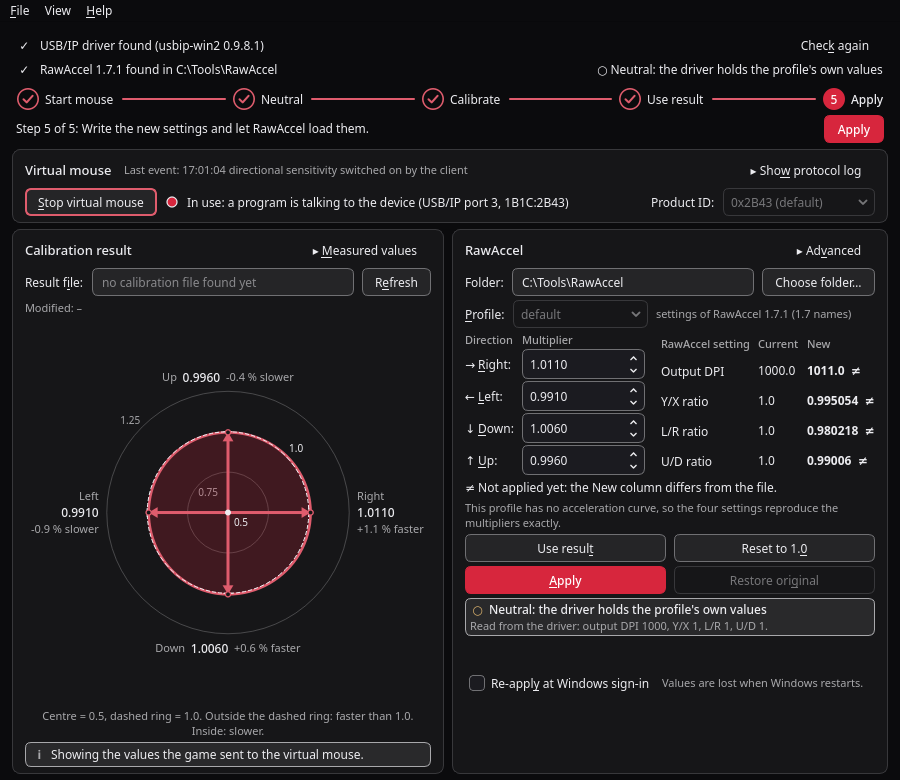
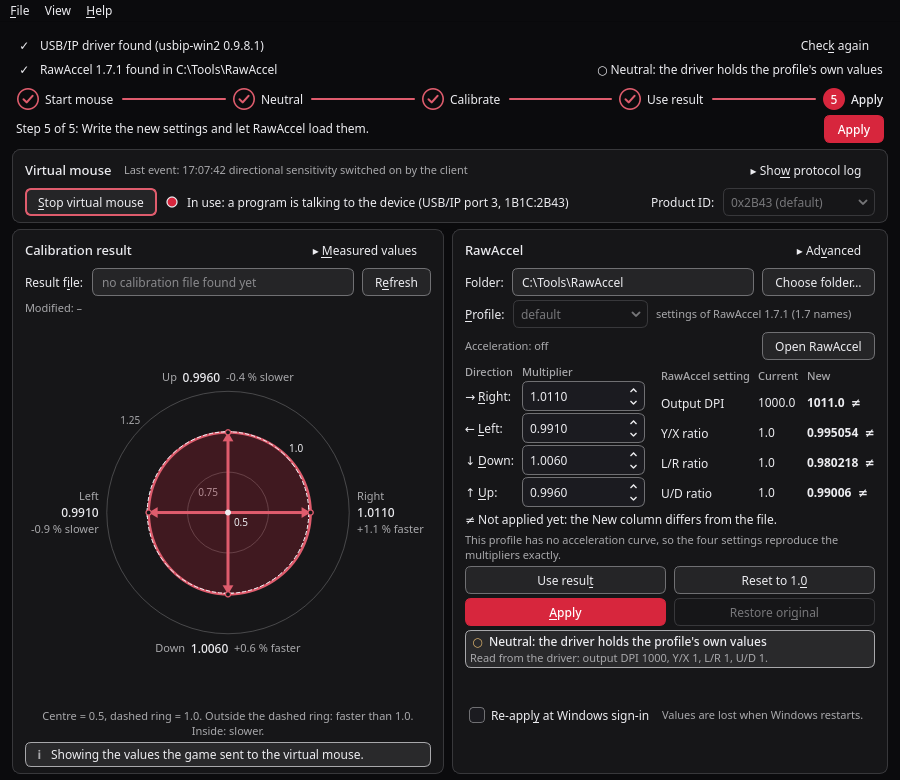
Show the active acceleration in both driver cards, with a way to the driver's settings
The Linux driver card names the acceleration the module is set to in its
head and follows changes made elsewhere; the RawAccel card names that of
the selected profile. Both are read-only. "Open yeetmouse settings" and
"Open RawAccel" start the driver's own settings program when it is found
and say how to get it when not.

Changed region(s): [[0.4978, 0.4308, 0.9644, 0.9231], [0.4978, 0.4308, 0.6533, 0.5538]]

diff --git a/quadsens/ui/driver_panel.py b/quadsens/ui/driver_panel.py
@@ -2,10 +2,12 @@
 
 from __future__ import annotations
 
+import os
+import shutil
 import time
 from collections.abc import Callable
 
-from .. import active_linux
+from .. import accel, active_linux
 from ..calibration import Result, driver_scalars
 from ..driver import (
     PARAM_NAMES,
@@ -32,12 +34,22 @@ from .status import (
     caption,
     column_header,
     heading,
+    start_program,
 )
 
 # Mouse direction each parameter scales; the driver's +Y is "down".
 DIRECTIONS: tuple[str, ...] = ("right", "left", "down", "up")
 ROW_TITLES: tuple[str, ...] = ("→ &Right:", "← &Left:", "↓ &Down:", "↑ &Up:")
 NO_VALUE = "–"
+def find_yeetmouse_gui() -> str | None:
+    """The fork's settings program: on PATH, or where its Makefile installs it."""
+    found = shutil.which(accel.YEETMOUSE_GUI)
+    if found:
+        return found
+    fixed = "/usr/bin/" + accel.YEETMOUSE_GUI
+    return fixed if os.path.isfile(fixed) and os.access(fixed, os.X_OK) else None
+
+
 WATCH_MS = 3000          # how often the driver is read again while the card is visible
 DECIMALS = 4
 # Half a step of the last digit shown: closer than this is "the same value".
@@ -190,11 +202,30 @@ class DriverPanel(Card):
             bool(settings.value("driver/apply_on_start", False, type=bool)))
         self.auto_check.toggled.connect(
             lambda checked: settings.setValue("driver/apply_on_start", checked))
+        # The acceleration the driver is set to, read-only: in short in the head
+        # of the card, in full here, with the way to the driver's own settings.
+        self.accel = accel.Accel(accel.YEETMOUSE, problem="not read yet")
+        self.accel_label = caption(ElideLabel())
+        self.accel_label.setAccessibleName("Acceleration the driver is set to")
+        self.settings_button = QtWidgets.QPushButton("Open yeetmouse settings…")
+        self.settings_button.setToolTip(
+            "Start the settings program of the driver (yeetmouse), where the "
+            "acceleration is changed. QuadSens only shows it.")
+        self.settings_button.clicked.connect(self.open_driver_settings)
+        # Replaceable, so that tests start nothing.
+        self.find_gui: Callable[[], str | None] = find_yeetmouse_gui
+        self.launch: Callable[[str, str], bool] = start_program
         self.advanced = QtWidgets.QWidget()
         advanced_layout = QtWidgets.QVBoxLayout(self.advanced)
         advanced_layout.setContentsMargins(SPACE_M * 2, 0, 0, 0)
         advanced_layout.setSpacing(SPACE_S)
-        advanced_layout.addWidget(self.flip_check)
+        # The button shares the line of the first switch, so that it costs no height.
+        first_row = QtWidgets.QHBoxLayout()
+        first_row.setSpacing(SPACE_M)
+        first_row.addWidget(self.flip_check)
+        first_row.addStretch(1)
+        first_row.addWidget(self.settings_button)
+        advanced_layout.addLayout(first_row)
         advanced_layout.addWidget(self.flip_hint)
         advanced_layout.addWidget(self.auto_check)
         self.advanced_toggle = Disclosure("Ad&vanced", self.advanced)
@@ -205,7 +236,7 @@ class DriverPanel(Card):
 
         for control in (self.use_button, self.flip_check, self.reset_button,
                         self.read_button, self.apply_button, self.auto_check,
-                        self.advanced_toggle):
+                        self.advanced_toggle, self.settings_button):
             control.setAccessibleDescription(control.toolTip())
 
         self.message = MessageLabel("Driver message")
@@ -225,7 +256,9 @@ class DriverPanel(Card):
 
         layout = self.card_layout()
         head = QtWidgets.QHBoxLayout()
-        head.addWidget(heading("Driver (yeetmouse)"), 1)
+        head.setSpacing(SPACE_M)
+        head.addWidget(heading("Driver (yeetmouse)"))
+        head.addWidget(self.accel_label, 1)
         head.addWidget(self.advanced_toggle)
         layout.addLayout(head)
         layout.addLayout(grid)
@@ -340,9 +373,39 @@ class DriverPanel(Card):
         self.save_state = self._saver.state(self.driver_values())
         self._update_pending()
         self._update_indicator()
+        self._update_accel()
         self.changed.emit()
         self.driver_read.emit()
         return state
+
+    def _update_accel(self) -> bool:
+        """Read the acceleration settings again; True if they changed."""
+        found = accel.read_yeetmouse(self._driver.params_dir, self._saver.config_path)
+        changed = found != self.accel
+        self.accel = found
+        self.accel_label.setText(found.short())
+        self.accel_label.setAccessibleDescription(found.summary())
+        self.accel_label.setToolTip(
+            found.summary() + ". Read-only here; change it in the driver's own settings "
+            "(Advanced > Open yeetmouse settings). This is what the driver was set to; "
+            "it applies no curve if it rejects these parameters, and says so only in "
+            "the kernel log.")
+        return changed
+
+    def open_driver_settings(self) -> None:
+        """Start the driver's own settings program, or say how to get it."""
+        program = self.find_gui()
+        if program is None:
+            self.message.show_message(
+                "The settings program of the driver (%s) was not found. It is installed "
+                "together with the fork (make install, or its package); see the README "
+                "of the driver." % accel.YEETMOUSE_GUI)
+        elif self.launch(program, ""):
+            self.message.show_message(
+                "Started %s. What you change there shows up here within a few seconds."
+                % program)
+        else:
+            self.message.show_message("%s could not be started." % program, error=True)
 
     def _update_indicator(self) -> None:
         self.active = shown = active_linux.linux_indicator(
@@ -364,6 +427,8 @@ class DriverPanel(Card):
             return
         if self._driver.read() != self.state:
             self.refresh()
+        else:
+            self._update_accel()
 
     def showEvent(self, event: object) -> None:  # noqa: N802 (Qt name)
         super().showEvent(event)        # type: ignore[arg-type]

diff --git a/quadsens/ui/rawaccel_panel.py b/quadsens/ui/rawaccel_panel.py
@@ -7,7 +7,7 @@ import time
 from collections.abc import Callable, Mapping
 from pathlib import Path
 
-from .. import active, rawaccel, rawaccel_live, win_autostart
+from .. import accel, active, rawaccel, rawaccel_live, win_autostart
 from ..calibration import Result, driver_scalars
 from ..model import SCALE_MAX, SCALE_MIN, Scalars
 from ..rawaccel import Four, RawAccelError
@@ -25,6 +25,7 @@ from .status import (
     caption,
     column_header,
     heading,
+    start_program,
 )
 
 ROW_TITLES: tuple[str, ...] = ("→ &Right:", "← &Left:", "↓ &Down:", "↑ &Up:")
@@ -179,6 +180,21 @@ class RawAccelPanel(Card):
         self.state_label = ElideLabel()
         self.state_label.setAccessibleName("Whether the settings file holds the new values")
         self.note_label = caption(WrapLabel("How exact the result is"))
+        # The acceleration of the selected profile, read-only, and the way to
+        # RawAccel's own window, where it is changed.
+        self.accel = accel.Accel(accel.RAWACCEL, problem="no settings file")
+        self.accel_label = caption(ElideLabel())
+        self.accel_label.setAccessibleName("Acceleration of the selected profile")
+        self.settings_button = QtWidgets.QPushButton("Open RawAccel")
+        self.settings_button.setToolTip(
+            "Start RawAccel's own window (rawaccel.exe in this folder), where the "
+            "acceleration is changed. QuadSens only shows it.")
+        self.settings_button.clicked.connect(self.open_rawaccel)
+        self.launch: Callable[[str, str], bool] = start_program     # replaced in tests
+        accel_row = QtWidgets.QHBoxLayout()
+        accel_row.setSpacing(SPACE_M)
+        accel_row.addWidget(self.accel_label, 1)
+        accel_row.addWidget(self.settings_button)
         self.indicator = ActiveIndicator("RawAccel driver activity", wrap=True)
         self.autostart_check = QtWidgets.QCheckBox("Re-appl&y at Windows sign-in")
         self.autostart_check.setToolTip(AUTOSTART_TIP)
@@ -232,7 +248,7 @@ class RawAccelPanel(Card):
 
         for control in (self.choose_button, self.use_button, self.reset_button,
                         self.apply_button, self.restore_button, self.flip_check,
-                        self.advanced_toggle, self.autostart_check):
+                        self.advanced_toggle, self.autostart_check, self.settings_button):
             control.setAccessibleDescription(control.toolTip())
 
         self.message = MessageLabel("RawAccel message")
@@ -244,6 +260,7 @@ class RawAccelPanel(Card):
         layout.addLayout(head)
         layout.addLayout(folder_row)
         layout.addLayout(profile_row)
+        layout.addLayout(accel_row)
         layout.addLayout(tables)
         layout.addWidget(self.state_label)
         layout.addWidget(self.note_label)
@@ -466,9 +483,45 @@ class RawAccelPanel(Card):
         self.apply_button.setEnabled(idle and usable and not self.is_applied())
         self.restore_button.setEnabled(idle and usable and self.can_restore())
         self.choose_button.setEnabled(idle)
+        self._update_accel()
         self._refresh_autostart()
         self._update_indicator(read=False)
         self.changed.emit()
+
+    # ---- acceleration, read-only --------------------------------------------------
+
+    def _update_accel(self) -> None:
+        document = self.document
+        if document is None:
+            self.accel = accel.Accel(accel.RAWACCEL, problem="no settings file")
+        else:
+            profiles = document.data.get("profiles")
+            index = self.profile_index()
+            profile = profiles[index] if isinstance(profiles, list) \
+                and index < len(profiles) and isinstance(profiles[index], dict) else {}
+            self.accel = accel.read_rawaccel_profile(profile)
+        text = self.accel.summary()
+        self.accel_label.setText(text)
+        self.accel_label.setAccessibleDescription(text)
+        self.accel_label.setToolTip(text + ". Read-only here; change it in RawAccel.")
+        self.settings_button.setEnabled(self.folder is not None)
+
+    def open_rawaccel(self) -> None:
+        """Start RawAccel's own window, or say where it should be."""
+        if self.folder is None:
+            return
+        program = self.folder / accel.RAWACCEL_GUI
+        if not program.is_file():
+            self.message.show_message(
+                "%s is not in %s. It comes with RawAccel; choose the folder that holds "
+                "it, or install RawAccel with the button on top of the window."
+                % (accel.RAWACCEL_GUI, self.folder))
+        elif self.launch(str(program), str(self.folder)):
+            self.message.show_message(
+                "Started RawAccel. After you change something there and it saves "
+                "settings.json, press Choose folder or restart QuadSens to read it again.")
+        else:
+            self.message.show_message("%s could not be started." % program, error=True)
 
     # ---- is the driver applying it? -----------------------------------------------
 

diff --git a/tests/test_ui.py b/tests/test_ui.py
@@ -391,6 +391,45 @@ class MainWindowTest(unittest.TestCase):
         self.assertEqual(again.driver_panel.indicator.text(), "✓ Active in driver")
         self.assertTrue(again.driver_panel.indicator.detail.text().startswith("Applied "))
 
+    def test_acceleration_is_shown_read_only_with_a_way_to_the_drivers_settings(self) -> None:
+        for name, text in (("AccelerationMode", "3"), ("Acceleration", "0.05"),
+                           ("Exponent", "1.8"), ("Midpoint", "1.3"), ("Motivity", "1.5"),
+                           ("Offset", "0"), ("InputCap", "0"), ("OutputCap", "2"),
+                           ("UseSmoothing", "0")):
+            (self.params / name).write_text(text + "\n")
+        before = {path.name: path.read_text() for path in self.params.iterdir()}
+        window = self.make_window()
+        window.show()
+        panel = window.driver_panel
+        self.assertEqual(panel.accel_label.text(),
+                         "Acceleration: Classic, 0.05, 1.8; output cap 2")
+        self.assertEqual(panel.accel_label.accessibleDescription(),
+                         "Acceleration: Classic, Acceleration 0.05, Exponent 1.8; "
+                         "output cap 2; UseSmoothing off")
+        # Changed in the driver's own program: the next look shows it.
+        (self.params / "AccelerationMode").write_text("12\n")
+        before["AccelerationMode"] = "12\n"
+        panel.watch()
+        self.assertEqual(panel.accel_label.text(),
+                         "Acceleration: mode 12 (not known to QuadSens)")
+
+        started: list[tuple[str, str]] = []
+        panel.launch = lambda program, folder: started.append((program, folder)) or True
+        panel.find_gui = lambda: None
+        panel.advanced_toggle.setChecked(True)
+        self.assertTrue(panel.settings_button.isVisible())
+        panel.settings_button.click()
+        self.assertEqual(started, [])
+        self.assertIn("was not found", panel.message.text())
+        self.assertIn("installed together with the fork", panel.message.text())
+        panel.find_gui = lambda: "/usr/bin/yeetmouse"
+        panel.settings_button.click()
+        self.assertEqual(started, [("/usr/bin/yeetmouse", "")])
+        self.assertIn("Started /usr/bin/yeetmouse", panel.message.text())
+        # Showing it wrote nothing.
+        self.assertEqual({path.name: path.read_text() for path in self.params.iterdir()},
+                         before)
+
     def test_long_texts_never_widen_the_window(self) -> None:
         """Paths, versions and messages from outside must wrap or elide."""
         window = self.make_window()

diff --git a/tests/test_windows_ui.py b/tests/test_windows_ui.py
@@ -1134,6 +1134,31 @@ class ActiveAndAutostartTest(WindowCase):
         self.assertEqual(window.tools_strip.active_label.text(),
                          "✕ Not active yet: restart Windows")
 
+    def test_acceleration_of_the_profile_is_shown_read_only(self) -> None:
+        shutil.copy(FIXTURES / "rawaccel" / "settings-1.7.1-profiles.json", self.settings_file)
+        original = self.settings_file.read_bytes()
+        window = self.make()
+        window.show()
+        panel = window.rawaccel_panel
+        self.assertEqual(panel.accel_label.text(), "Acceleration: off")
+        panel.profile_combo.setCurrentIndex(1)
+        self.assertEqual(panel.accel_label.text(),
+                         "Acceleration: Classic, acceleration 0.005, exponentClassic 2; "
+                         "cap (output) input 15, output 1.5; gain")
+        panel.profile_combo.setCurrentIndex(2)
+        self.assertIn("Natural", panel.accel_label.text())
+        self.assertEqual(self.settings_file.read_bytes(), original)     # nothing written
+
+        started: list[tuple[str, str]] = []
+        panel.launch = lambda program, folder: started.append((program, folder)) or True
+        panel.settings_button.click()
+        self.assertEqual(started, [])                          # no rawaccel.exe in the folder
+        self.assertIn("rawaccel.exe is not in", panel.message.text())
+        (self.folder / "rawaccel.exe").write_bytes(b"MZ")
+        panel.settings_button.click()
+        self.assertEqual(started, [(str(self.folder / "rawaccel.exe"), str(self.folder))])
+        self.assertIn("Started RawAccel", panel.message.text())
+
     def test_autostart_is_off_until_ticked_and_gone_when_unticked(self) -> None:
         window = self.make()
         panel = window.rawaccel_panel
@@ -1180,6 +1205,9 @@ class ActiveAndAutostartTest(WindowCase):
     def test_autostart_needs_a_folder_and_reports_a_registry_that_refuses(self) -> None:
         window = self.make(choose=False)
         panel = window.rawaccel_panel
+        self.assertFalse(panel.settings_button.isEnabled())           # no folder, no RawAccel
+        self.assertEqual(panel.accel_label.text(),
+                         "Acceleration: not read (no settings file)")
         self.assertFalse(panel.autostart_check.isEnabled())
         self.assertIn("Needs the RawAccel folder", panel.boot_label.text())
         panel.choose_folder(str(self.folder))

diff --git a/tools/make_screenshot.py b/tools/make_screenshot.py
@@ -748,6 +748,12 @@ def main(argv: list[str]) -> int:
         for name in PARAM_NAMES:
             (params / name).write_text("1.000000\n")
         (params / "update").write_text("0\n")
+        # The acceleration the stand-in driver is set to (shown read-only).
+        for name, text in (("AccelerationMode", "1"), ("Acceleration", "0.05"),
+                           ("Exponent", "1.8"), ("Midpoint", "1.3"), ("Motivity", "1.5"),
+                           ("Offset", "0"), ("InputCap", "0"), ("OutputCap", "0"),
+                           ("UseSmoothing", "0")):
+            (params / name).write_text(text + "\n")
         uhid = Path(tmp, "uhid")  # a plain file: "writable", but never opened
         uhid.write_bytes(b"")
         cal_dir = Path(tmp, "Users", "u1", "ASFData", "mouse")

diff --git a/quadsens/ui/status.py b/quadsens/ui/status.py
@@ -175,6 +175,12 @@ class ElideLabel(QtWidgets.QLabel):
         self.update()
 
 
+def start_program(program: str, folder: str = "") -> bool:
+    """Start a settings program on its own, detached from QuadSens. True if it started."""
+    started = QtCore.QProcess.startDetached(program, [], folder)
+    return bool(started[0] if isinstance(started, tuple) else started)
+
+
 class ActiveIndicator(QtWidgets.QFrame):
     """Says whether the driver is applying the values: mark, headline, one line of detail.
 

diff --git a/README.md b/README.md
@@ -310,6 +310,15 @@ with the reason (module not loaded, not the fork), or *Cannot be verified*
 when the parameters are not readable for you. The driver check on top shows
 the same in short. Reading needs no extra rights and writes nothing.
 
+**Acceleration.** The head of the driver card shows the acceleration the
+driver is set to, for example "Acceleration: Linear, 0.05; cap none", read
+from the module parameters (or from `/etc/yeetmouse.conf` when the module
+cannot be read, which it then says). QuadSens only shows it. *Advanced > Open
+yeetmouse settings…* starts the driver's own settings program (`yeetmouse`,
+installed with the fork), where it is changed. A mode QuadSens does not know
+is shown by its number, not guessed. How the modes of yeetmouse and RawAccel
+relate is written up in [docs/accel-modes.md](docs/accel-modes.md).
+
 To calibrate again later, start at step 1; resetting the driver to 1.0 makes
 QuadSens wait for a new result.
 
@@ -568,6 +577,12 @@ values cannot be read back; the line then says *Sent to the driver HH:MM:SS,
 accepted by RawAccel's writer*, which is what is known, and *Not applied
 since Windows started* once Windows was restarted after that.
 
+**Acceleration.** Under the profile the card shows the acceleration of the
+selected profile as RawAccel's settings file names it, for example
+"Acceleration: Classic, acceleration 0.005, exponentClassic 2; ...", read-only.
+*Open RawAccel* starts `rawaccel.exe` from the chosen folder, where it is
+changed.
+
 **After a restart.** RawAccel's driver forgets its settings when Windows
 shuts down; they stay in `settings.json`. Tick *Re-apply at Windows sign-in*
 in the RawAccel card to have them loaded again each time you sign in. It is
@@ -738,6 +753,7 @@ quadsens/              application package
   win_autostart.py     the opt-in startup entry for RawAccel's writer (no Qt)
   rawaccel_live.py     read RawAccel's driver state, read-only (no Qt)
   active.py, active_linux.py   "is the driver applying it", in words (no Qt)
+  accel.py             acceleration settings of both drivers, read-only (no Qt)
   persist.py           save to the config file and verify it (no Qt)
   steps.py             the guided steps, derived from state (no Qt)
   model.py             value types and number parsing (no Qt)
